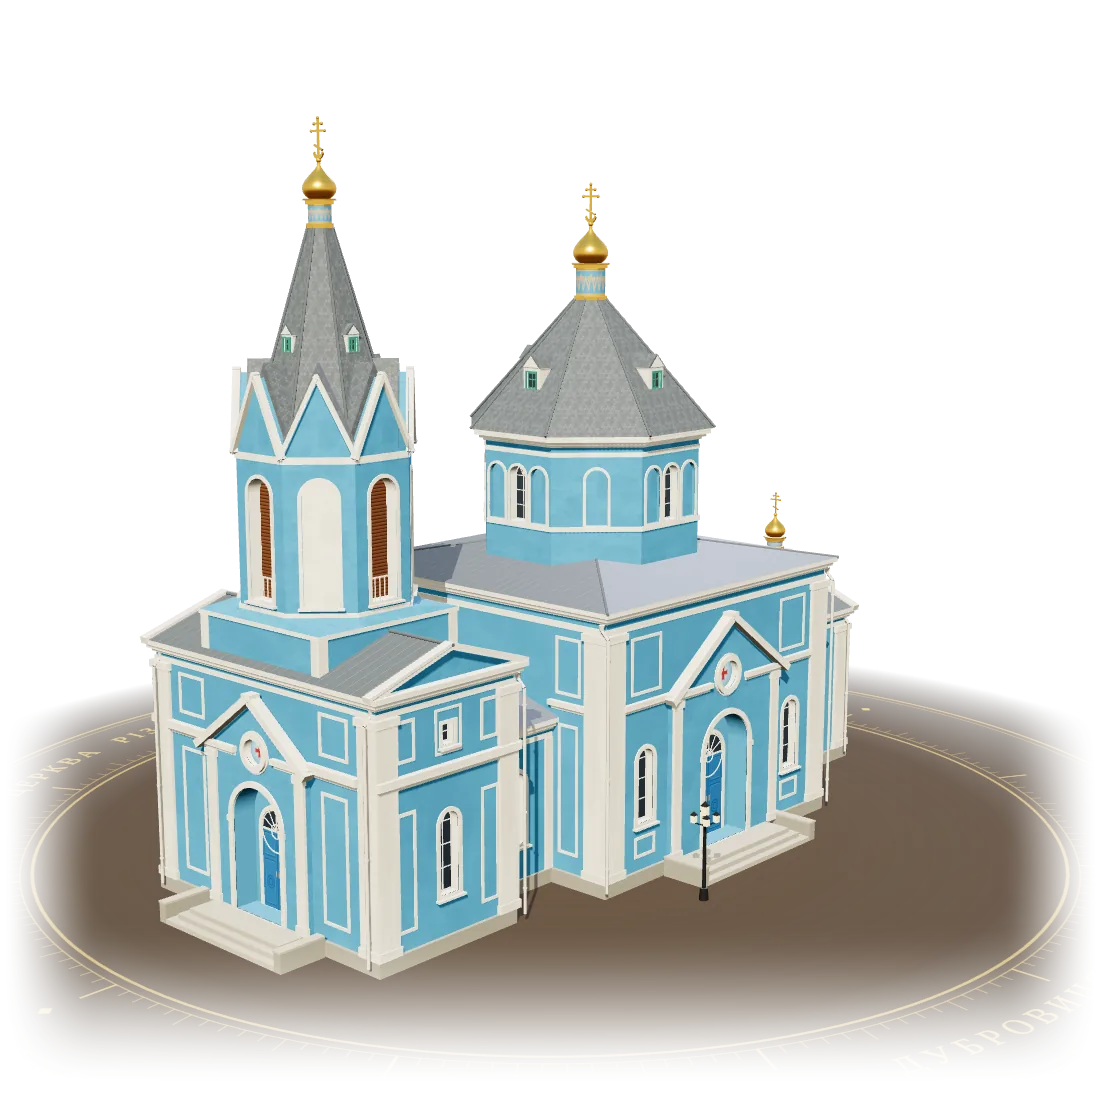
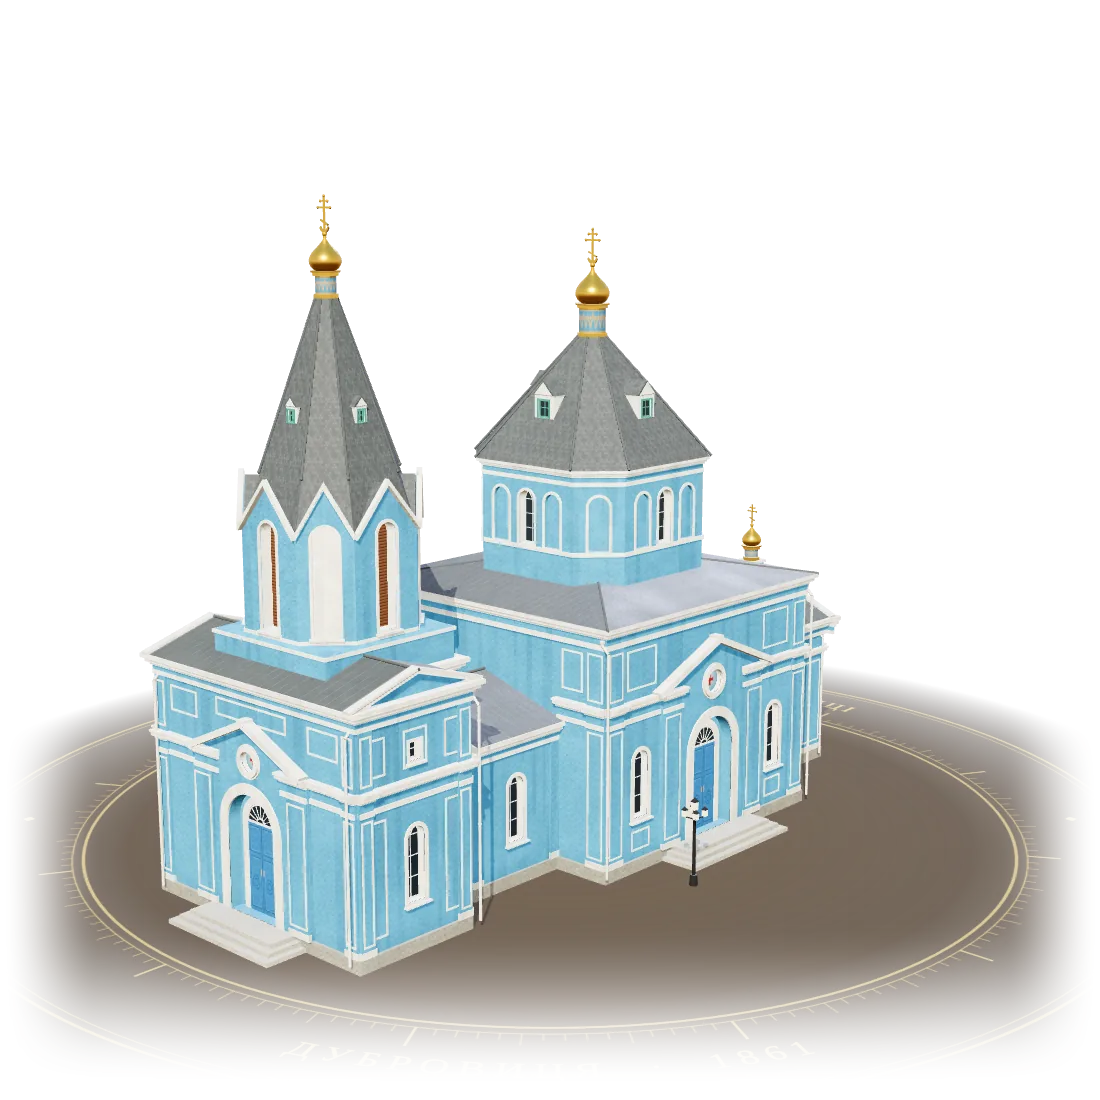
3D: на головній випадково костел або церква; підписи на підставці церкви; реалістичніші матеріали (тинькування, підтьоки, вологість біля землі, світло неба) для обох моделей; нові постери
Claude-Session: https://claude.ai/code/session_015E5VkhKKERkWtXctkqCkmF

Changed region(s): [[0.0309, 0.0927, 0.9582, 0.9273]]

diff --git a/cerkva-3d.js b/cerkva-3d.js
@@ -734,6 +734,63 @@ function lowCornice(g, x0, x1, y, zf){
   box(.24, .38, .24, x, 3.55, z, lamp); add(new THREE.ConeGeometry(.2, .2, 4), M.dark, x, 4.03, z).rotation.y = Math.PI/4;
 })();
 
+/* ═══════════ REALISM · weathering worked out in the shader, in world space, so it is the same scale on every part:
+   lime-wash blotches, fine plaster grain (bumped, so it catches the light), rain streaks running down from the
+   cornices, darker damp near the ground; metal and slate get gentle tonal variation ═══════════ */
+function weather(m, o){
+  if (!m || !m.isMeshStandardMaterial || m.userData.weathered) return;
+  o = Object.assign({blotch: .1, grain: .05, streak: .12, grime: .22, bump: .012, scale: 1, rough: .06}, o || {});
+  m.userData.weathered = true;
+  m.extensions = m.extensions || {}; m.extensions.derivatives = true;
+  var key = 'w' + [o.blotch, o.grain, o.streak, o.grime, o.bump, o.scale, o.rough].join('_');
+  function f(v){ v = String(+v); return v.indexOf('.') < 0 && v.indexOf('e') < 0 ? v + '.0' : v; }
+  m.onBeforeCompile = function(sh){
+    sh.vertexShader = sh.vertexShader.replace('#include <common>', '#include <common>\nvarying vec3 vWPos;')
+      .replace('#include <begin_vertex>', '#include <begin_vertex>\nvWPos = (modelMatrix * vec4(transformed, 1.0)).xyz;');
+    sh.fragmentShader = sh.fragmentShader.replace('#include <common>', [
+      '#include <common>', 'varying vec3 vWPos;',
+      'float wHash(vec3 p){ p = fract(p*0.3183099 + 0.1); p *= 17.0; return fract(p.x*p.y*p.z*(p.x + p.y + p.z)); }',
+      'float wNoise(vec3 x){ vec3 i = floor(x), f = fract(x); f = f*f*(3.0 - 2.0*f);',
+      '  return mix(mix(mix(wHash(i), wHash(i + vec3(1,0,0)), f.x), mix(wHash(i + vec3(0,1,0)), wHash(i + vec3(1,1,0)), f.x), f.y),',
+      '             mix(mix(wHash(i + vec3(0,0,1)), wHash(i + vec3(1,0,1)), f.x), mix(wHash(i + vec3(0,1,1)), wHash(i + vec3(1,1,1)), f.x), f.y), f.z); }',
+      'float wFbm(vec3 p){ return 0.5*wNoise(p) + 0.3*wNoise(p*2.07 + 3.1) + 0.2*wNoise(p*4.13 + 7.7); }'
+    ].join('\n'))
+    .replace('#include <map_fragment>', [
+      '#include <map_fragment>',
+      'vec3 wp = vWPos*' + f(o.scale) + ';',
+      'float wB = wFbm(wp*0.45);',
+      'float wG = wNoise(wp*9.0);',
+      'float wS = wNoise(vec3(wp.x*0.9, wp.y*0.08, wp.z*0.9)) * smoothstep(0.35, 0.8, wNoise(vec3(wp.x*3.1, wp.y*0.22, wp.z*3.1)));',
+      'float wShade = 1.0 + ' + f(o.blotch) + '*(wB - 0.5)*2.0 + ' + f(o.grain) + '*(wG - 0.5);',
+      'wShade *= 1.0 - ' + f(o.streak) + '*smoothstep(0.18, 0.55, wS);',
+      'wShade *= mix(1.0 - ' + f(o.grime) + ', 1.0, smoothstep(0.15, 1.6, vWPos.y));',
+      'diffuseColor.rgb *= wShade;'
+    ].join('\n'))
+    .replace('#include <roughnessmap_fragment>', '#include <roughnessmap_fragment>\nroughnessFactor = clamp(roughnessFactor + ' + f(o.rough) + '*(wB - 0.5)*2.0, 0.04, 1.0);')
+    .replace('#include <normal_fragment_maps>', [
+      '#include <normal_fragment_maps>',
+      '{ float wh = wNoise(vWPos*' + f(o.scale) + '*14.0)*0.6 + wNoise(vWPos*' + f(o.scale) + '*37.0)*0.4;',
+      '  vec2 dh = vec2(dFdx(wh), dFdy(wh)); vec3 sx = dFdx(-vViewPosition), sy = dFdy(-vViewPosition);',
+      '  vec3 r1 = cross(sy, normal), r2 = cross(normal, sx); float det = dot(sx, r1);',
+      '  vec3 grad = sign(det)*(dh.x*r1 + dh.y*r2);',
+      '  normal = normalize(abs(det)*normal - ' + f(o.bump) + '*grad*' + f(1/(o.scale||1)) + '); }'
+    ].join('\n'));
+  };
+  m.customProgramCacheKey = function(){ return key; };
+  m.needsUpdate = true;
+}
+
+scene.environment = envTex;
+weather(M.wall,  {blotch: .1, grain: .05, streak: .16, grime: .26, bump: .014});
+weather(M.trim,  {blotch: .05, grain: .04, streak: .14, grime: .22, bump: .01});
+weather(M.plinth,{blotch: .14, grain: .08, streak: .05, grime: .2, bump: .02});
+weather(M.step,  {blotch: .12, grain: .08, streak: 0, grime: .15, bump: .02});
+weather(revealW, {blotch: .04, streak: .08, grime: .1}); weather(revealB, {blotch: .08, streak: .1, grime: .1});
+weather(M.roof,  {blotch: .14, grain: .05, streak: .06, grime: 0, bump: .004, rough: .12, scale: .7});
+weather(M.slate, {blotch: .12, grain: .06, streak: .05, grime: 0, bump: .004, rough: .1, scale: .8});
+weather(M.door,  {blotch: .08, streak: 0, grime: .12}); weather(M.louv, {blotch: .1, streak: 0, grime: 0});
+weather(M.neck,  {blotch: .06, streak: 0, grime: 0});
+
 /* ═══════════ PERFORMANCE · bake the static parts into one mesh per material and pass ═══════════ */
 (function mergeStatic(root){
   root.updateMatrixWorld(true);
@@ -800,9 +857,10 @@ var GX = -3.0;                                        // centre of the church on
         t += lower ? -d : d;
       });
     }
-    arc('ЦЕРКВА  РІЗДВА  БОГОРОДИЦІ', 0, false, fs*.22);
-    arc('ДУБРОВИЦЯ  ·  1861', Math.PI, true, fs*.22);
-    [Math.PI/2, -Math.PI/2].forEach(function(t){ k.save(); k.translate(c + Math.sin(t)*rt, c - Math.cos(t)*rt); k.rotate(t + Math.PI/4); k.fillRect(-fs*.13, -fs*.13, fs*.26, fs*.26); k.restore(); });
+    var FA = Math.PI + Math.atan2(50, 46);                     /* the side the viewer first sees: south-west */
+    arc('ДУБРОВИЦЯ  ·  1861', FA, true, fs*.22);
+    arc('ЦЕРКВА  РІЗДВА  ПРЕСВЯТОЇ  БОГОРОДИЦІ', FA - Math.PI, false, fs*.16);
+    [FA + Math.PI/2, FA - Math.PI/2].forEach(function(t){ k.save(); k.translate(c + Math.sin(t)*rt, c - Math.cos(t)*rt); k.rotate(t + Math.PI/4); k.fillRect(-fs*.13, -fs*.13, fs*.26, fs*.26); k.restore(); });
   });
   var gm = new THREE.MeshStandardMaterial({map:tex, roughness:1, transparent:true, depthWrite:false});
   var g = add(new THREE.CircleGeometry(R, 128), gm, GX, 0, 0, scene); g.rotation.x = -Math.PI/2; g.castShadow = false; g.renderOrder = -1;
@@ -820,7 +878,7 @@ if (o.motes){
 }
 
 /* ── light: a low western sun, as on the archival photographs ── */
-scene.add(new THREE.HemisphereLight('#fff4de', '#3a2c1c', .72));
+scene.add(new THREE.HemisphereLight('#fff4de', '#3a2c1c', .45));
 var sun = new THREE.DirectionalLight('#ffeccd', 1.5);
 sun.position.set(-44, 50, 30); sun.target.position.set(GX, 8, 0);
 sun.castShadow = true; sun.shadow.mapSize.set(o.shadow, o.shadow);

diff --git a/kostel-3d.js b/kostel-3d.js
@@ -567,6 +567,76 @@ function shapeOf2(loop, hole){ var s = new THREE.Shape(loop); if (hole) s.holes.
   win(lb, 0, 2.2, 1.1, 1.8, false, .18, 2);
 });
 
+/* ═══════════ REALISM · weathering worked out in the shader, in world space, so it is the same scale on every part:
+   lime-wash blotches, fine plaster grain (bumped, so it catches the light), rain streaks running down from the
+   cornices, darker damp near the ground; metal and slate get gentle tonal variation ═══════════ */
+function weather(m, o){
+  if (!m || !m.isMeshStandardMaterial || m.userData.weathered) return;
+  o = Object.assign({blotch: .1, grain: .05, streak: .12, grime: .22, bump: .012, scale: 1, rough: .06}, o || {});
+  m.userData.weathered = true;
+  m.extensions = m.extensions || {}; m.extensions.derivatives = true;
+  var key = 'w' + [o.blotch, o.grain, o.streak, o.grime, o.bump, o.scale, o.rough].join('_');
+  function f(v){ v = String(+v); return v.indexOf('.') < 0 && v.indexOf('e') < 0 ? v + '.0' : v; }
+  m.onBeforeCompile = function(sh){
+    sh.vertexShader = sh.vertexShader.replace('#include <common>', '#include <common>\nvarying vec3 vWPos;')
+      .replace('#include <begin_vertex>', '#include <begin_vertex>\nvWPos = (modelMatrix * vec4(transformed, 1.0)).xyz;');
+    sh.fragmentShader = sh.fragmentShader.replace('#include <common>', [
+      '#include <common>', 'varying vec3 vWPos;',
+      'float wHash(vec3 p){ p = fract(p*0.3183099 + 0.1); p *= 17.0; return fract(p.x*p.y*p.z*(p.x + p.y + p.z)); }',
+      'float wNoise(vec3 x){ vec3 i = floor(x), f = fract(x); f = f*f*(3.0 - 2.0*f);',
+      '  return mix(mix(mix(wHash(i), wHash(i + vec3(1,0,0)), f.x), mix(wHash(i + vec3(0,1,0)), wHash(i + vec3(1,1,0)), f.x), f.y),',
+      '             mix(mix(wHash(i + vec3(0,0,1)), wHash(i + vec3(1,0,1)), f.x), mix(wHash(i + vec3(0,1,1)), wHash(i + vec3(1,1,1)), f.x), f.y), f.z); }',
+      'float wFbm(vec3 p){ return 0.5*wNoise(p) + 0.3*wNoise(p*2.07 + 3.1) + 0.2*wNoise(p*4.13 + 7.7); }'
+    ].join('\n'))
+    .replace('#include <map_fragment>', [
+      '#include <map_fragment>',
+      'vec3 wp = vWPos*' + f(o.scale) + ';',
+      'float wB = wFbm(wp*0.45);',
+      'float wG = wNoise(wp*9.0);',
+      'float wS = wNoise(vec3(wp.x*0.9, wp.y*0.08, wp.z*0.9)) * smoothstep(0.35, 0.8, wNoise(vec3(wp.x*3.1, wp.y*0.22, wp.z*3.1)));',
+      'float wShade = 1.0 + ' + f(o.blotch) + '*(wB - 0.5)*2.0 + ' + f(o.grain) + '*(wG - 0.5);',
+      'wShade *= 1.0 - ' + f(o.streak) + '*smoothstep(0.18, 0.55, wS);',
+      'wShade *= mix(1.0 - ' + f(o.grime) + ', 1.0, smoothstep(0.15, 1.6, vWPos.y));',
+      'diffuseColor.rgb *= wShade;'
+    ].join('\n'))
+    .replace('#include <roughnessmap_fragment>', '#include <roughnessmap_fragment>\nroughnessFactor = clamp(roughnessFactor + ' + f(o.rough) + '*(wB - 0.5)*2.0, 0.04, 1.0);')
+    .replace('#include <normal_fragment_maps>', [
+      '#include <normal_fragment_maps>',
+      '{ float wh = wNoise(vWPos*' + f(o.scale) + '*14.0)*0.6 + wNoise(vWPos*' + f(o.scale) + '*37.0)*0.4;',
+      '  vec2 dh = vec2(dFdx(wh), dFdy(wh)); vec3 sx = dFdx(-vViewPosition), sy = dFdy(-vViewPosition);',
+      '  vec3 r1 = cross(sy, normal), r2 = cross(normal, sx); float det = dot(sx, r1);',
+      '  vec3 grad = sign(det)*(dh.x*r1 + dh.y*r2);',
+      '  normal = normalize(abs(det)*normal - ' + f(o.bump) + '*grad*' + f(1/(o.scale||1)) + '); }'
+    ].join('\n'));
+  };
+  m.customProgramCacheKey = function(){ return key; };
+  m.needsUpdate = true;
+}
+/* a soft sky for every surface to pick up light from, not only the gilded and glazed ones */
+function skyEnv(renderer){
+  var es = new THREE.Scene(), g = new THREE.SphereGeometry(50, 32, 16), col = [], p = g.attributes.position, c = new THREE.Color();
+  var top = new THREE.Color('#8fb8e3'), hor = new THREE.Color('#f4e6c8'), low = new THREE.Color('#5b4a33');
+  for (var i = 0; i < p.count; i++){ var y = p.getY(i)/50; if (y > 0) c.copy(hor).lerp(top, Math.pow(y, .6)); else c.copy(hor).lerp(low, Math.min(1, -y*3)); col.push(c.r, c.g, c.b); }
+  g.setAttribute('color', new THREE.Float32BufferAttribute(col, 3));
+  es.add(new THREE.Mesh(g, new THREE.MeshBasicMaterial({vertexColors: true, side: THREE.BackSide})));
+  var sunDisc = new THREE.Mesh(new THREE.SphereGeometry(6, 16, 8), new THREE.MeshBasicMaterial({color: new THREE.Color(6, 5.4, 4.2)}));
+  sunDisc.position.set(-28, 30, 20); es.add(sunDisc);
+  var pm = new THREE.PMREMGenerator(renderer), t = pm.fromScene(es, .03).texture; pm.dispose();
+  return t;
+}
+
+scene.environment = skyEnv(renderer);
+weather(M.wall,  {blotch: .12, grain: .05, streak: .2, grime: .28, bump: .014});
+weather(M.trim,  {blotch: .05, grain: .04, streak: .16, grime: .22, bump: .01});
+weather(M.field, {blotch: .05, grain: .04, streak: .12, grime: .1, bump: .01});
+weather(revealMat, {blotch: .04, streak: .08, grime: .1}); weather(revealWall, {blotch: .1, streak: .12, grime: .1});
+weather(M.roof,  {blotch: .16, grain: .06, streak: 0, grime: 0, bump: .004, rough: .12, scale: .7});
+weather(M.dome,  {blotch: .14, grain: .05, streak: .12, grime: 0, bump: .003, rough: .1});
+weather(M.domeF, {blotch: .14, grain: .05, streak: .12, grime: 0, bump: .003, rough: .1});
+weather(M.door,  {blotch: .1, streak: 0, grime: .15}); weather(M.orn, {blotch: .12, streak: 0, grime: 0});
+weather(M.sash,  {blotch: .04, streak: 0, grime: 0}); weather(M.frameG, {blotch: .08, streak: .1, grime: 0});
+weather(M.pipe,  {blotch: .1, streak: 0, grime: .1, bump: .003});
+
 /* ═══════════ PERFORMANCE · bake the ~800 static parts into a handful of meshes (one per material and pass),
    so a phone draws a few dozen batches a frame instead of well over a thousand ═══════════ */
 (function mergeStatic(root){
@@ -682,7 +752,7 @@ if (o.motes){
 
 /* ── light ── */
 /* ── light ── */
-scene.add(new THREE.HemisphereLight('#fff4de', '#3a2c1c', .7));
+scene.add(new THREE.HemisphereLight('#fff4de', '#3a2c1c', .42));
 var sun = new THREE.DirectionalLight('#ffeccd', 1.55);
 sun.position.set(-40, 50, 34); sun.target.position.set(0, 10, -15);
 sun.castShadow = true; sun.shadow.mapSize.set(o.shadow, o.shadow);

diff --git a/index.html b/index.html
@@ -361,10 +361,31 @@ a, button, [role="button"], input, select, textarea,
                 <span class="hx-new"><i></i>Новинка · 3D-модель</span>
                 <p class="hx-hint" id="hxHint"><svg viewBox="0 0 20 20" fill="none" stroke="currentColor" stroke-width="1.5" stroke-linecap="round" stroke-linejoin="round" aria-hidden="true"><path d="M3 10c0-2 3-3.5 7-3.5s7 1.5 7 3.5-3 3.5-7 3.5"/><path d="M12 11.4 10 13.5l2 2.1"/></svg>Потягніть, щоб обернути</p>
                 <div class="hx-cap">
-                    <div><b>Костел Іоанна Хрестителя</b><small>мурований 1740 · освячений 1742 · пам'ятка національного значення</small></div>
-                    <a class="hx-full" href="kostel-3d.html">Розглянути зблизька <svg viewBox="0 0 16 16" fill="none" stroke="currentColor" stroke-width="1.6" stroke-linecap="round" stroke-linejoin="round" aria-hidden="true"><path d="M2.5 6V2.5H6M13.5 6V2.5H10M2.5 10v3.5H6M13.5 10v3.5H10"/></svg></a>
+                    <div><b id="hxTitle">Костел Іоанна Хрестителя</b><small id="hxSub">мурований 1740 · освячений 1742 · пам'ятка національного значення</small></div>
+                    <a class="hx-full" id="hxFull" href="kostel-3d.html">Розглянути зблизька <svg viewBox="0 0 16 16" fill="none" stroke="currentColor" stroke-width="1.6" stroke-linecap="round" stroke-linejoin="round" aria-hidden="true"><path d="M2.5 6V2.5H6M13.5 6V2.5H10M2.5 10v3.5H6M13.5 10v3.5H10"/></svg></a>
                 </div>
             </div>
+            <script>
+            /* на кожному відкритті обкладинки — випадково костел або церква */
+            (function(){
+              var M = {
+                kostel: {js: 'kostel-3d.js', g: 'Kostel3D', poster: 'kostel-3d-poster.webp', href: 'kostel-3d.html', title: 'Костел Іоанна Хрестителя',
+                         sub: "мурований 1740 · освячений 1742 · пам'ятка національного значення", alt: 'Костел Іоанна Хрестителя в Дубровиці — 3D-модель',
+                         aria: '3D-модель костелу Іоанна Хрестителя. Потягніть убік, щоб обернути.', opts: {view: [46, 14, 52], targetY: 16.5, fit: innerWidth < 980 ? 1.1 : 1.07}},
+                cerkva: {js: 'cerkva-3d.js', g: 'Cerkva3D', poster: 'cerkva-3d-poster.webp', href: 'cerkva-3d.html', title: 'Церква Різдва Богородиці',
+                         sub: "збудована 1861 · пам'ятка національного значення", alt: 'Церква Різдва Пресвятої Богородиці в Дубровиці — 3D-модель',
+                         aria: '3D-модель церкви Різдва Богородиці. Потягніть убік, щоб обернути.', opts: {view: [-50, 14, 46], targetY: 13.2, fit: innerWidth < 980 ? 1.04 : 1.0}}
+              };
+              var k = Math.random() < .5 ? 'kostel' : 'cerkva', m = M[k];
+              var st = document.getElementById('hxStage'), img = st.querySelector('.hx-poster');
+              img.src = m.poster; img.alt = m.alt;
+              document.getElementById('hx3d').setAttribute('aria-label', m.aria);
+              document.getElementById('hxTitle').textContent = m.title;
+              document.getElementById('hxSub').textContent = m.sub;
+              document.getElementById('hxFull').href = m.href;
+              st.dataset.model = k; window.__hx3d = m;
+            })();
+            </script>
         </div>
     </section>
 
@@ -6898,7 +6919,6 @@ g.ULB={open:open,close:close,nav:nav,
 })(window);
     </script>
 
-<script src="kostel-3d.js" defer></script>
 <script>
 (function(){
   var SH = { img: 'atlas-1798-chastyna-1.jpg', w: 2351, h: 2595 };
@@ -6918,12 +6938,17 @@ g.ULB={open:open,close:close,nav:nav,
   var st = document.getElementById('hxStage'), cv = document.getElementById('hx3d');
   function idle(f){ (window.requestIdleCallback || function(g){ setTimeout(g, 250); })(f, { timeout: 1200 }); }
   function mount3d(){
-    if (!window.Kostel3D) { st.classList.add('nogl'); return; }
-    Kostel3D.mount(cv, { zoom: false, touch: 'pan-y', view: [46, 14, 52], targetY: 16.5, fit: innerWidth < 980 ? 1.1 : 1.07, pixelRatio: 1.75,
-      shadow: innerWidth < 700 ? 1024 : 2048, motes: true, autoRotateSpeed: .55,
-      onStart: function(){ st.classList.add('touched'); },
-      onReady: function(){ st.classList.add('live'); },
-      onFail: function(){ st.classList.add('nogl'); } });
+    var m = window.__hx3d; if (!m){ st.classList.add('nogl'); return; }
+    var sc = document.createElement('script'); sc.src = m.js; sc.async = true;
+    sc.onerror = function(){ st.classList.add('nogl'); };
+    sc.onload = function(){
+      var G = window[m.g]; if (!G){ st.classList.add('nogl'); return; }
+      G.mount(cv, Object.assign({ zoom: false, touch: 'pan-y', pixelRatio: 1.75, shadow: innerWidth < 700 ? 1024 : 2048, motes: true, autoRotateSpeed: .55,
+        onStart: function(){ st.classList.add('touched'); },
+        onReady: function(){ st.classList.add('live'); },
+        onFail: function(){ st.classList.add('nogl'); } }, m.opts));
+    };
+    document.head.appendChild(sc);
   }
   if (st && cv) { if (document.readyState === 'complete') idle(mount3d); else addEventListener('load', function(){ idle(mount3d); }); }
   var f = document.getElementById('hxSearch'), q = document.getElementById('hxQ');
